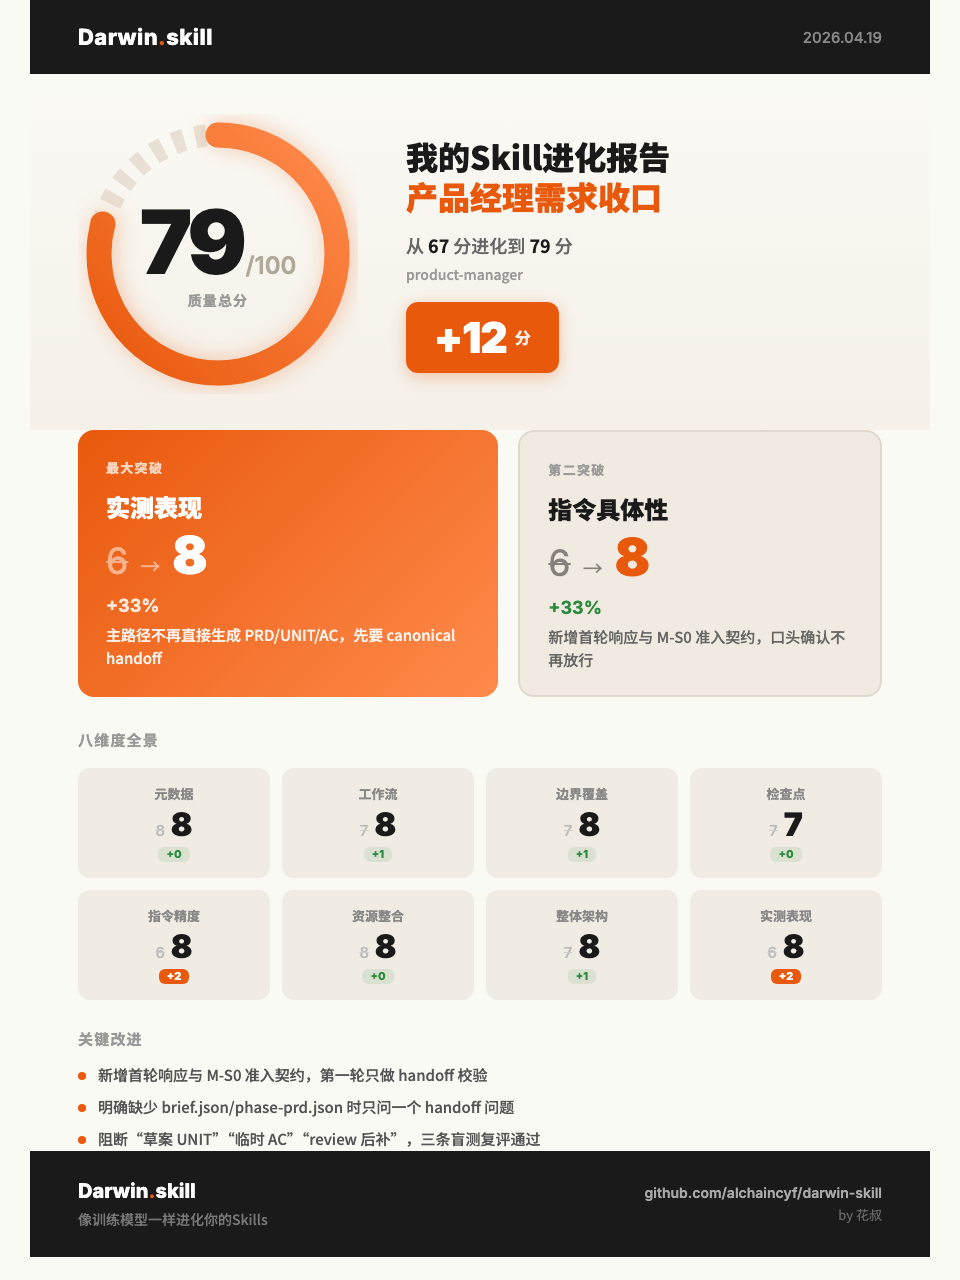
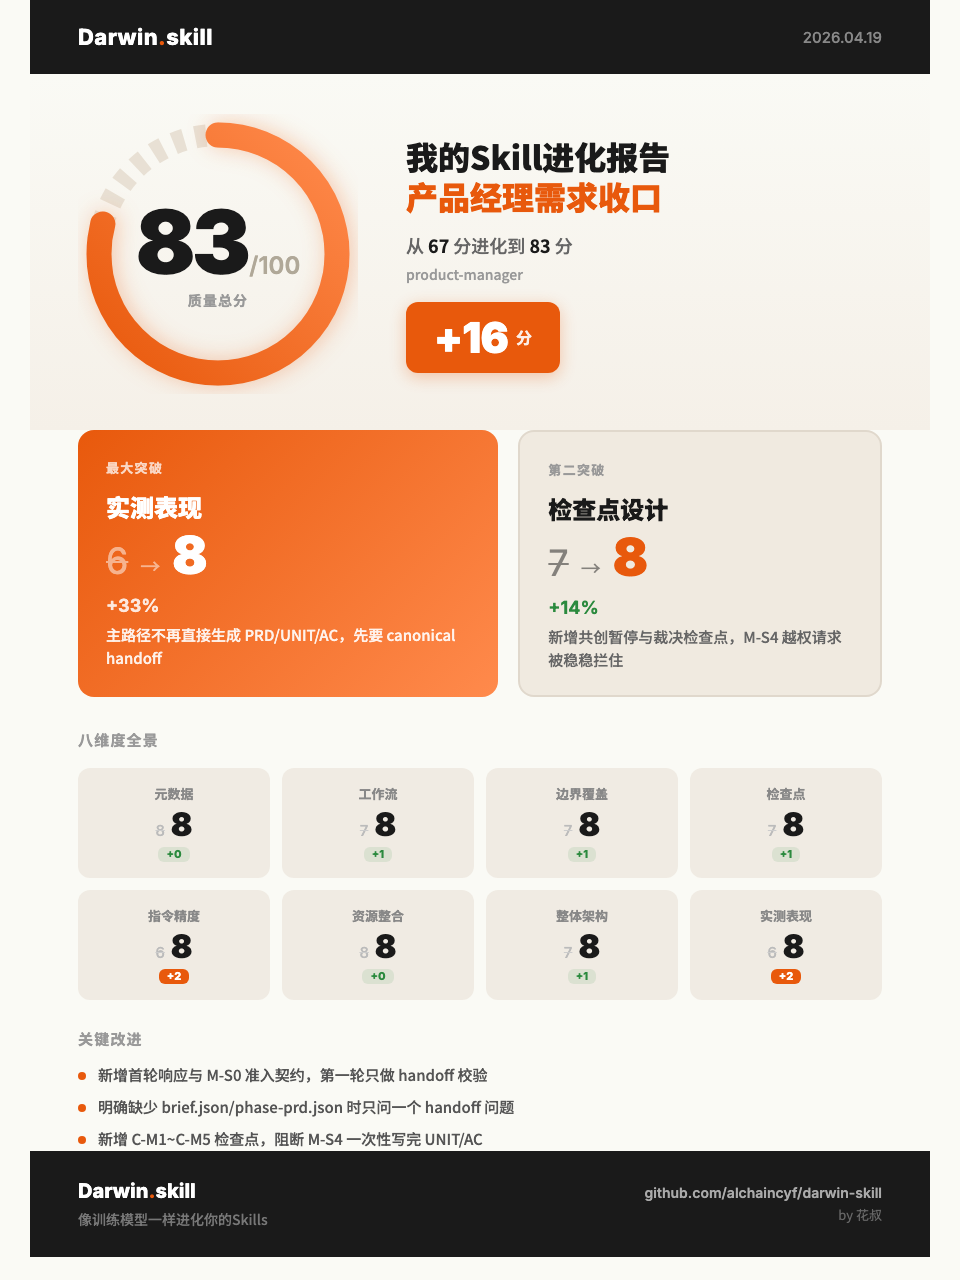
docs: update product-manager round2 darwin result

diff --git a/community/alchaincyf/skills/darwin-skill/results/product-manager-20260419-card.html b/community/alchaincyf/skills/darwin-skill/results/product-manager-20260419-card.html
@@ -469,7 +469,7 @@
       </svg>
       <div class="ring-center">
         <div>
-          <span class="ring-score" data-field="score-after">79</span><span class="ring-max">/100</span>
+          <span class="ring-score" data-field="score-after">83</span><span class="ring-max">/100</span>
         </div>
         <div class="ring-label">质量总分</div>
       </div>
@@ -481,11 +481,11 @@
         <span class="hero-skill-name" data-field="skill-name">产品经理需求收口</span>
       </div>
       <div class="hero-journey">
-        从 <strong data-field="score-before">67</strong> 分进化到 <strong>79</strong> 分<br>
+        从 <strong data-field="score-before">67</strong> 分进化到 <strong>83</strong> 分<br>
         <span style="color:#999;font-size:14px;" data-field="skill-id">product-manager</span>
       </div>
       <div class="delta-badge">
-        <span data-field="score-delta">+12</span>
+        <span data-field="score-delta">+16</span>
         <span class="delta-badge-label">分</span>
       </div>
     </div>
@@ -506,14 +506,14 @@
     </div>
     <div class="breakthrough-card secondary">
       <div class="breakthrough-label">第二突破</div>
-      <div class="breakthrough-dim" data-field="top2-name">指令具体性</div>
+      <div class="breakthrough-dim" data-field="top2-name">检查点设计</div>
       <div class="breakthrough-score-row">
-        <span class="breakthrough-from" data-field="top2-from">6</span>
+        <span class="breakthrough-from" data-field="top2-from">7</span>
         <span class="breakthrough-arrow">&rarr;</span>
         <span class="breakthrough-to" data-field="top2-to">8</span>
       </div>
-      <div class="breakthrough-pct" data-field="top2-pct">+33%</div>
-      <div class="breakthrough-story" data-field="top2-story">新增首轮响应与 M-S0 准入契约，口头确认不再放行</div>
+      <div class="breakthrough-pct" data-field="top2-pct">+14%</div>
+      <div class="breakthrough-story" data-field="top2-story">新增共创暂停与裁决检查点，M-S4 越权请求被稳稳拦住</div>
     </div>
   </div>
 
@@ -549,9 +549,9 @@
         <div class="dim-name">检查点</div>
         <div class="dim-score-row">
           <span class="dim-old-score">7</span>
-          <span class="dim-score">7</span>
+          <span class="dim-score">8</span>
         </div>
-        <span class="dim-arrow up-small">+0</span>
+        <span class="dim-arrow up-small">+1</span>
       </div>
       <div class="dim-cell">
         <div class="dim-name">指令精度</div>
@@ -594,7 +594,7 @@
     <div class="summary-items">
       <div class="summary-item" data-field="improve-1">新增首轮响应与 M-S0 准入契约，第一轮只做 handoff 校验</div>
       <div class="summary-item" data-field="improve-2">明确缺少 brief.json/phase-prd.json 时只问一个 handoff 问题</div>
-      <div class="summary-item" data-field="improve-3">阻断“草案 UNIT”“临时 AC”“review 后补”，三条盲测复评通过</div>
+      <div class="summary-item" data-field="improve-3">新增 C-M1~C-M5 检查点，阻断 M-S4 一次性写完 UNIT/AC</div>
     </div>
   </div>
 
